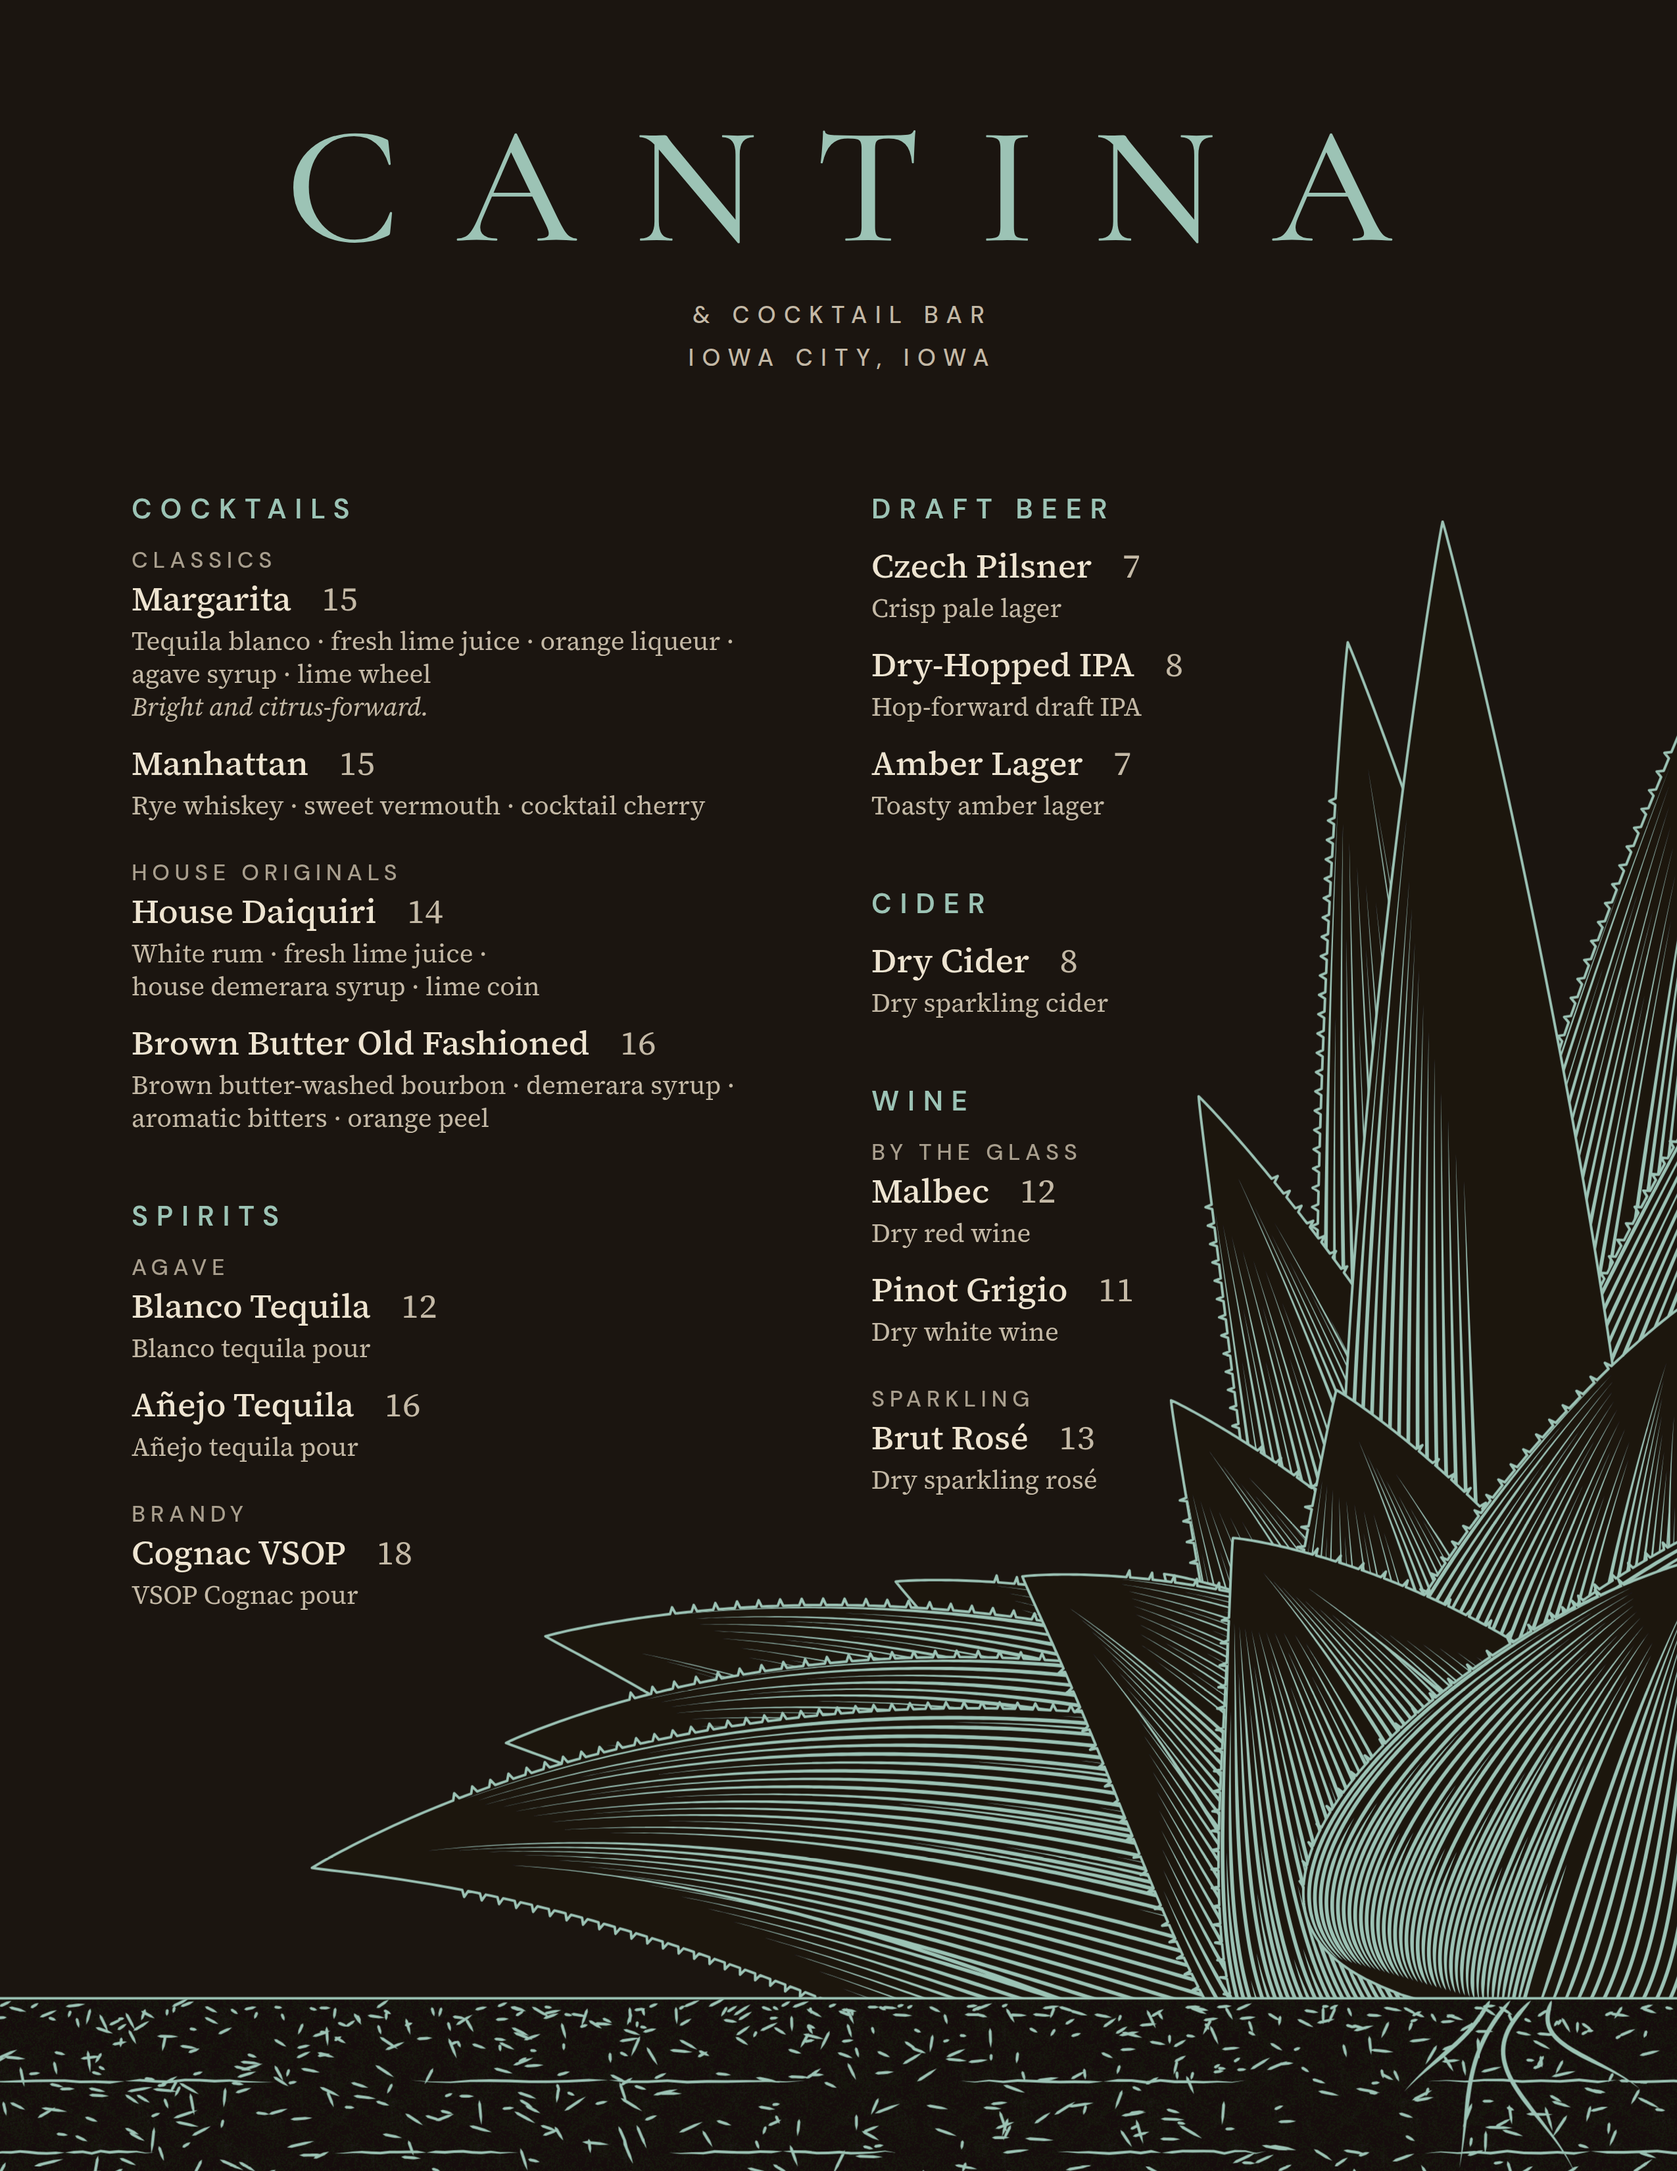
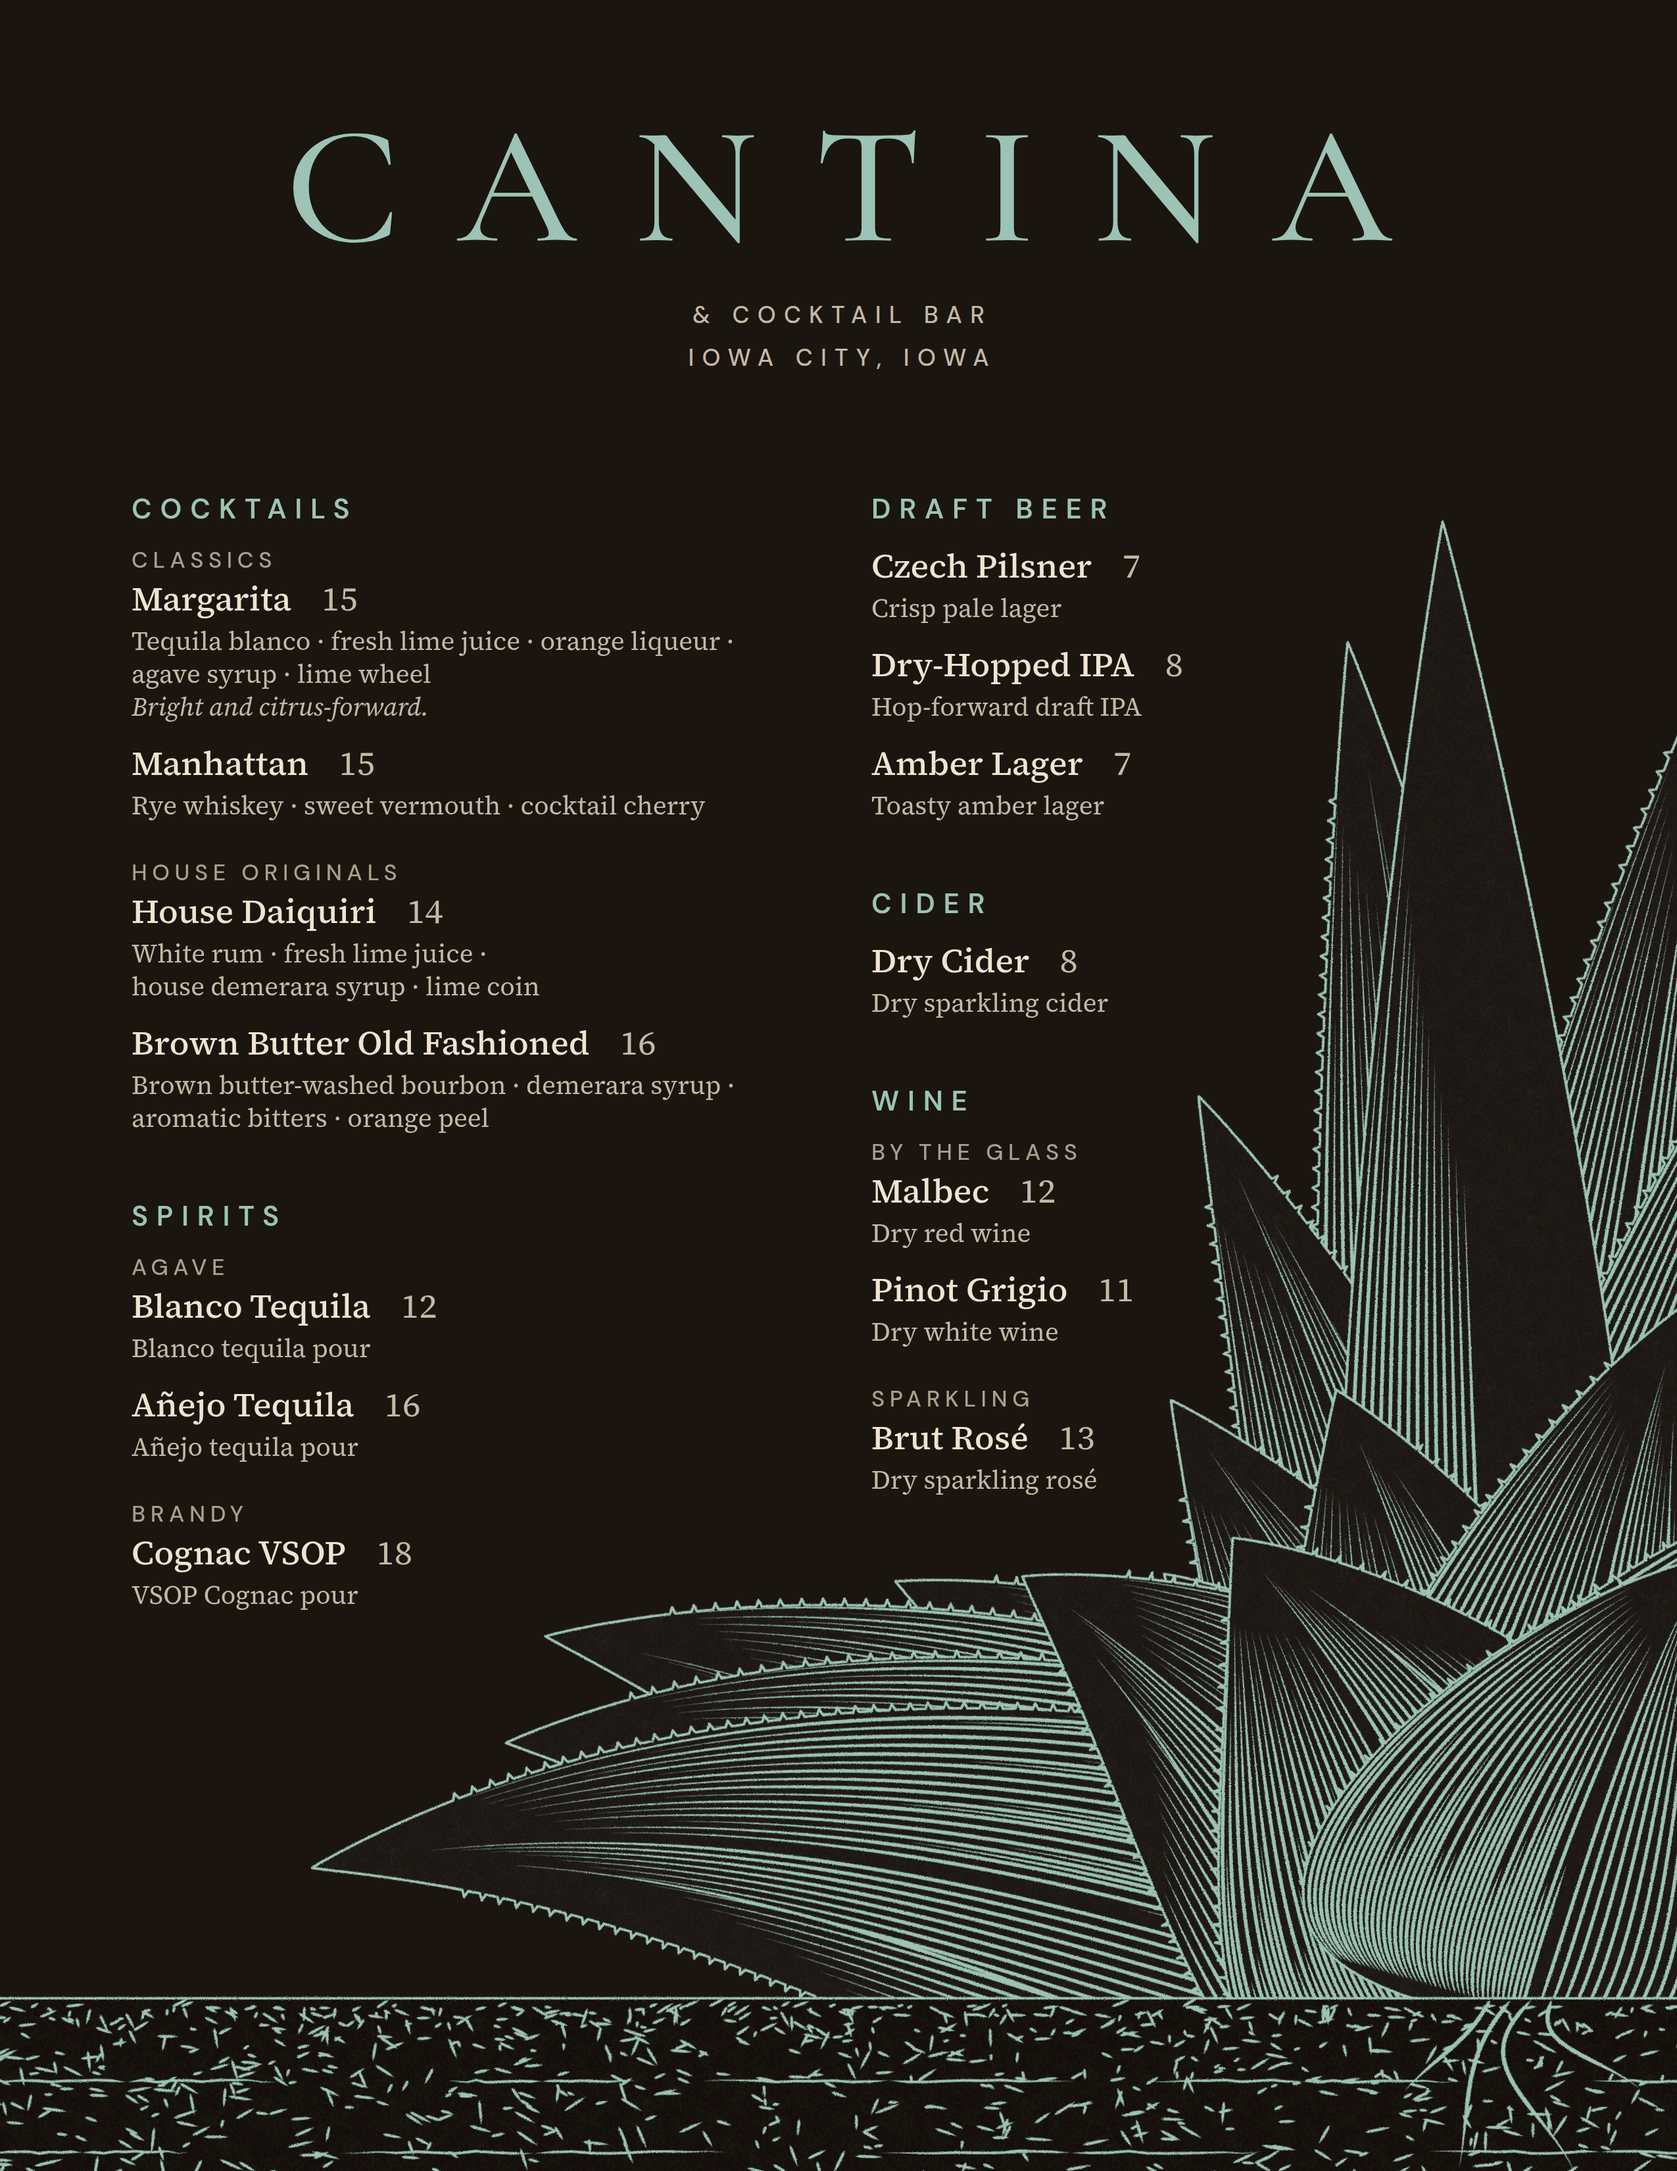
TEST-1: explore-I6 (loam band, plate tone, draft spirits wording)
Claude-Session: https://claude.ai/code/session_0119q5CFNNK1HNw6Gy8QYqx9

diff --git a/handoff/designs/test-1-iowa-city-cantina/explore-I6/proposal.md b/handoff/designs/test-1-iowa-city-cantina/explore-I6/proposal.md
@@ -1,0 +1,104 @@
+# TEST-1 explore-I6: Night Field, round 6 (from I5, the best so far at 73.8; I5 kept as the checkpoint)
+
+**Thesis:** A cross-section of a Mexican agave growing out of Iowa soil. Above a single soil line the rosette is engraved in agave blue-green; below it lies a band of warmer, darker black loam, drawn in the same engraved grammar and cropped by the page.
+
+**Concept words:** rooted, loam, cross-section, engraved, printed, quiet.
+
+**Avoid-list:**
+- waves, ripples or light glints in the soil
+- root fans that read as sunbursts
+- vector hairlines
+- taxonomy-speak in the copy
+- a second drawing
+- boxes, leaders, taglines
+- any change that measures worse than I5
+
+## Round 6 changes
+| # | Change | Result |
+|---|---|---|
+| 1 | Iowa soil | Below the soil line (y 972) is a separate band: loam #120C08 (warmer and darker than the #1B1510 ground) with plate tone. It is engraved with crumb strokes: 650 short tapered strokes at ±35° (30% of them near-vertical), densest just under the soil line and thinning with depth, plus two broken strata lines at 42% and 78% of the band depth. The same tapered-stroke grammar as the leaves. The 15-root fan is gone; 4 short roots (≈ 80 px) drop from the base and are cropped by the loam and the trim. Two earlier soil treatments were rejected on the render: long wavy strata read as water, and straight staggered dashes read as moonlight glints. |
+| 2 | Wordmark lock-up | Measured by pixel scan from CANTINA's baseline to the cap top of "& COCKTAIL BAR": 36 px before (in CSS px at 96/in; the review's "~70" was probably in another unit), now **32 px** (`.sub.a` margin 20 to 16). The 4 px recovered is less than one 8 px grid step, so the list top stays at y 240, the grid is kept, and no baseline was broken. |
+| 3 | Art vs column 2 | Moving the rosette 40 px right (bx 775) dropped the squint ratio from 9.06 to 5.54, and moving it down dropped it to 1.4-1.5, so both were **reverted**. Instead the art keeps a larger text clearance: 34 px (9 mm) instead of 23 px (6 mm), with the centre at bx 740. Leaf tips now stop at least 9 mm from Dry-Hopped IPA, Dry sparkling cider and the Wine lines (clamps: back2 0.79, leaf0 0.70, leaf1 0.64, leaf3 0.85, leaf10 0.94). The lowest leaf runs out to x ≈ 175, under Spirits, as a lead-in. |
+| 4 | Materiality | Only the art group gets an ink-spread filter (feTurbulence 1.6, displacement 0.9 CSS px ≈ 2.8 device px), so edges break up like printed ink at 1:1. Every leaf fill and the loam band also carry plate tone: a 61 px tile of fine grain in the accent colour, alpha ≤ 30/255. None of this reaches the text: the art stays 9 mm clear, and the worst-pixel contrast is unchanged. |
+| 5 | Spirits | Reverted to the draft wording: "Blanco tequila pour", "Añejo tequila pour", "VSOP Cognac pour". The public.beverage_categories citations are removed. |
+| 6 | Daiquiri | "White rum · fresh lime juice · house demerara syrup · lime coin". "house demerara syrup" is taken from the draft desc and asserted in the build. |
+| 7 | Wraps | A middot stays at the end of line 1 when a list wraps (the separator is bound to the ingredient before it), so a wrapped list reads as one list, e.g. "White rum · fresh lime juice · / house demerara syrup · lime coin". The last two ingredients stay together, so no garnish sits alone. |
+| 8 | Margarita | Ingredients and garnish, then the italic line "Bright and citrus-forward." This tasting note is **draft-supplied** (from the Margarita's `desc`). The other cocktails have no tasting note in the source, so none is shown. |
+| 9 | Sub-labels | 11 px DM Sans 500, contrast 6.92:1. |
+| 10 | Content | Otherwise unchanged; the build asserts every id and price. |
+
+## Geometry (CSS px at 96/in; trim 816 x 1056; bleed 12 px on every side; safe inset 48)
+- **Header:** centred on x 408. CANTINA cap top 62 to 64, baseline 117; sub-line cap top 149.
+- **Columns:** col 1 at x 64 to 392 and col 2 at x 424 to 752 (328 + 32 + 328), both starting at y 240. Col 1 ends at 784 and col 2 at 728. The grid is 8 px; one item gap (8) and one section gap (32).
+- **Art:**
+  - Soil line at y 972. Rosette base (740, 988), S = 750.
+  - Loam band from y 972 to the bleed.
+  - Bounding box x 0 to 816, y 256 to 1056; silhouette 23.1% of the page.
+- **Palette:**
+  - Ground #1B1510; loam #120C08.
+  - One accent #9CC3B5: wordmark, heads and art.
+  - Ivories #EEE4D1, #C4B9A6, #A99F8E.
+  - Accent share by colour match is 6.06% (≤ 8%).
+- **Outputs:**
+  - `preview-letter.png` (2550 x 3300, trim)
+  - `preview-letter-bleed.png` (2625 x 3375)
+  - `preview-phone.png` (1170 x 5583; one column, and the same soil band, rosette and roots close the page)
+
+## Contrast (worst pixel; letter and phone are the same)
+| Role | Min contrast |
+|---|---|
+| Names | 14.34 |
+| Accent | 9.37 |
+| Prices and descriptions | 9.33 |
+| Sub-labels | 6.92 |
+
+## Measured decisions (revert rule)
+| Test | Primary % | Ratio | Kept? |
+|---|---|---|---|
+| I5 final | 7.30 | 9.06 | reference |
+| Rosette 40 px right (bx 775, clearance 23) | 6.68 | 5.54 | reverted |
+| Rosette down 20-24 px | 3.8 | 1.4-1.5 | reverted |
+| bx 740, clearance 34 (final placement) | 7.30 | 8.90 | kept: -1.8% ratio for 3 mm more clearance by col 2 (the brief's explicit ask) |
+| No plate tone | 4.48 | 2.45 | plate tone kept |
+| No ink spread | 7.31 | 8.83 | ink kept (materiality; neutral on the metric) |
+
+## Device inventory and subtraction log
+| # | Device | Decision |
+|---|---|---|
+| 1 | Wordmark and lock-up | keep |
+| 2 | Sub-line | keep |
+| 3 | Accent heads | keep |
+| 4 | Sub-labels | keep |
+| 5 | Muted inline prices | keep |
+| 6 | Italic tasting note | keep |
+| 7 | Soil line | keep |
+| 8 | Loam band | keep (the Iowa material) |
+| 9 | Crumb strokes | keep, **density cut 900 to 650** (it was busy at thumbnail size; no metric loss) |
+| 10 | Two broken strata lines | keep |
+| 11 | Roots | **cut from 15 to 4** (the fan read as a sunburst) |
+| 12 | Long wavy strata | **removed** (read as water) |
+| 13 | Staggered dash strata | **removed** (read as glints) |
+| 14 | Rosette leaves, teeth, cupped margin | keep |
+| 15 | Tapered hatch | keep |
+| 16 | Plate tone | keep (ablation: ratio 8.9 falls to 2.45) |
+| 17 | Ink spread | keep |
+| 18 | Taxonomy spirit lines | **removed** (brief) |
+
+3 devices removed outright and 2 cut back, of 18.
+
+## visual_tests (before = I6 checkpoint with 900 crumbs; after = final)
+```json
+{"file": "preview-letter-before.png", "squint_salient_regions": 4, "primary_area_pct": 7.21, "primary_to_secondary": 8.98, "ground_luminance": 0.109, "value_range_p5_p95": [0.071, 0.462], "accent_area_pct": 0.0, "visual_centroid": [0.611, 0.63]}
+{"file": "preview-letter.png", "squint_salient_regions": 5, "primary_area_pct": 7.3, "primary_to_secondary": 8.9, "ground_luminance": 0.107, "value_range_p5_p95": [0.07, 0.459], "accent_area_pct": 0.0, "visual_centroid": [0.616, 0.628]}
+```
+`accent_area_pct` is 0.0 because the tool's saturation threshold misses this low-saturation accent; by colour match the accent covers 6.06%.
+
+## Sources
+- `../build/draft_doc.json`.
+- Garnishes: phg.recipe_versions f06abb74, 14d45e57, 7095fd3d, 9fb77eaa (see `../round-17/proposal.md`).
+- No library documents and no taxonomy text.
+
+## Open items
+- ABV, region and brand are waiting on Rob.
+- Brut Rosé 13 has no pour label in the draft.
+- "CANTINA" is still the placeholder venue word.
